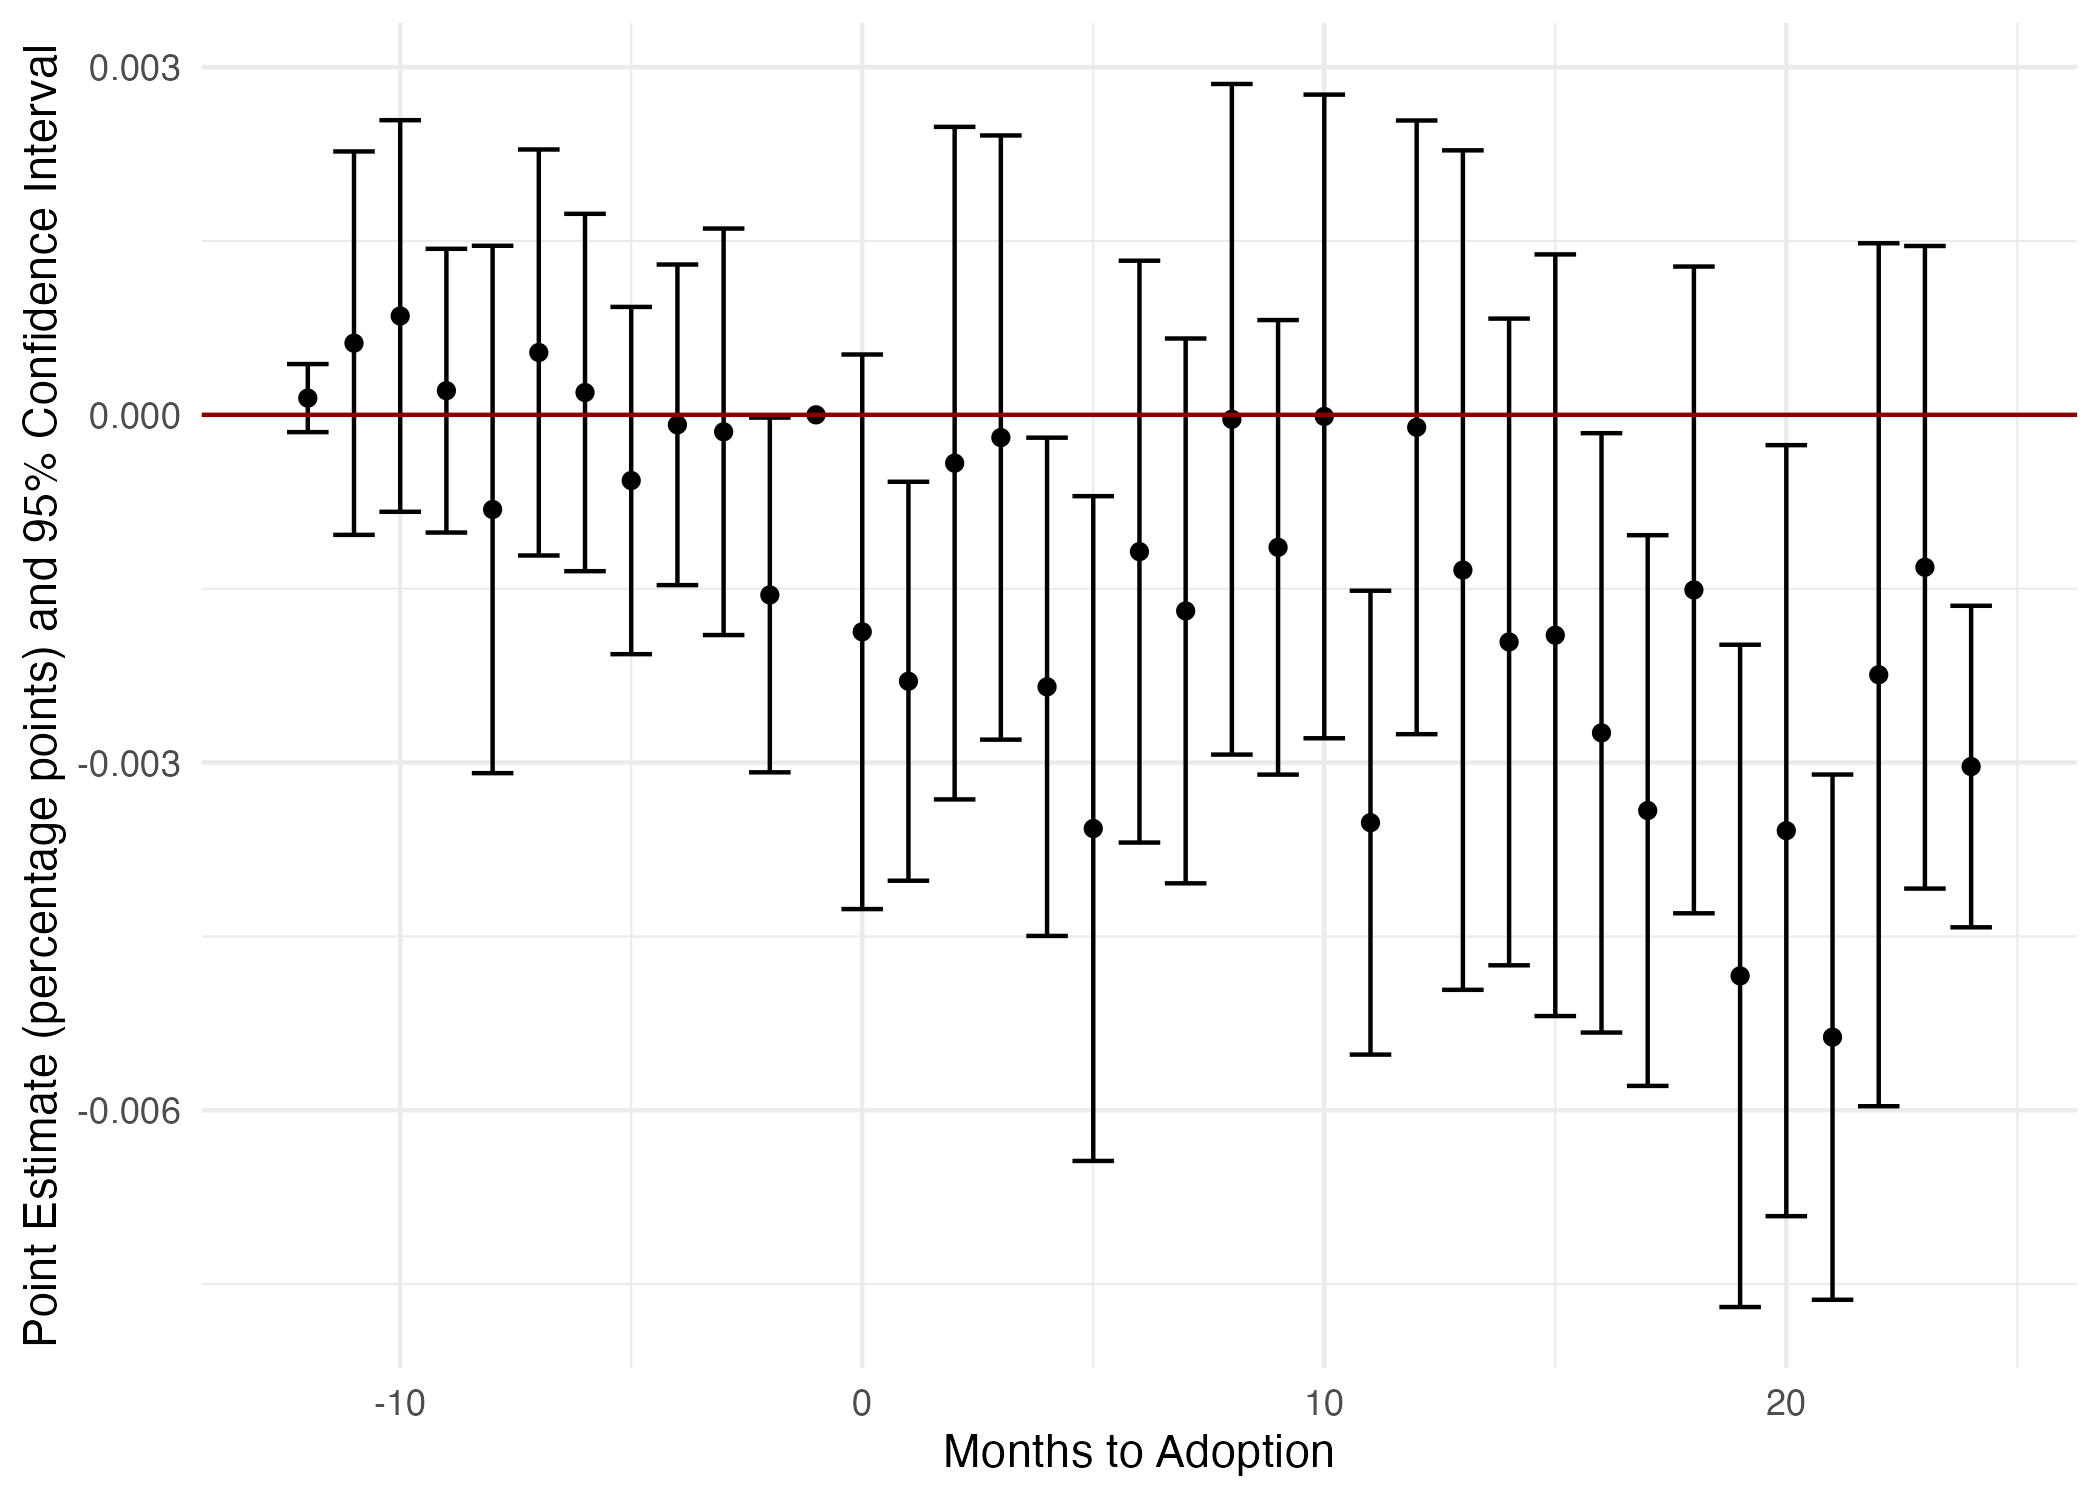
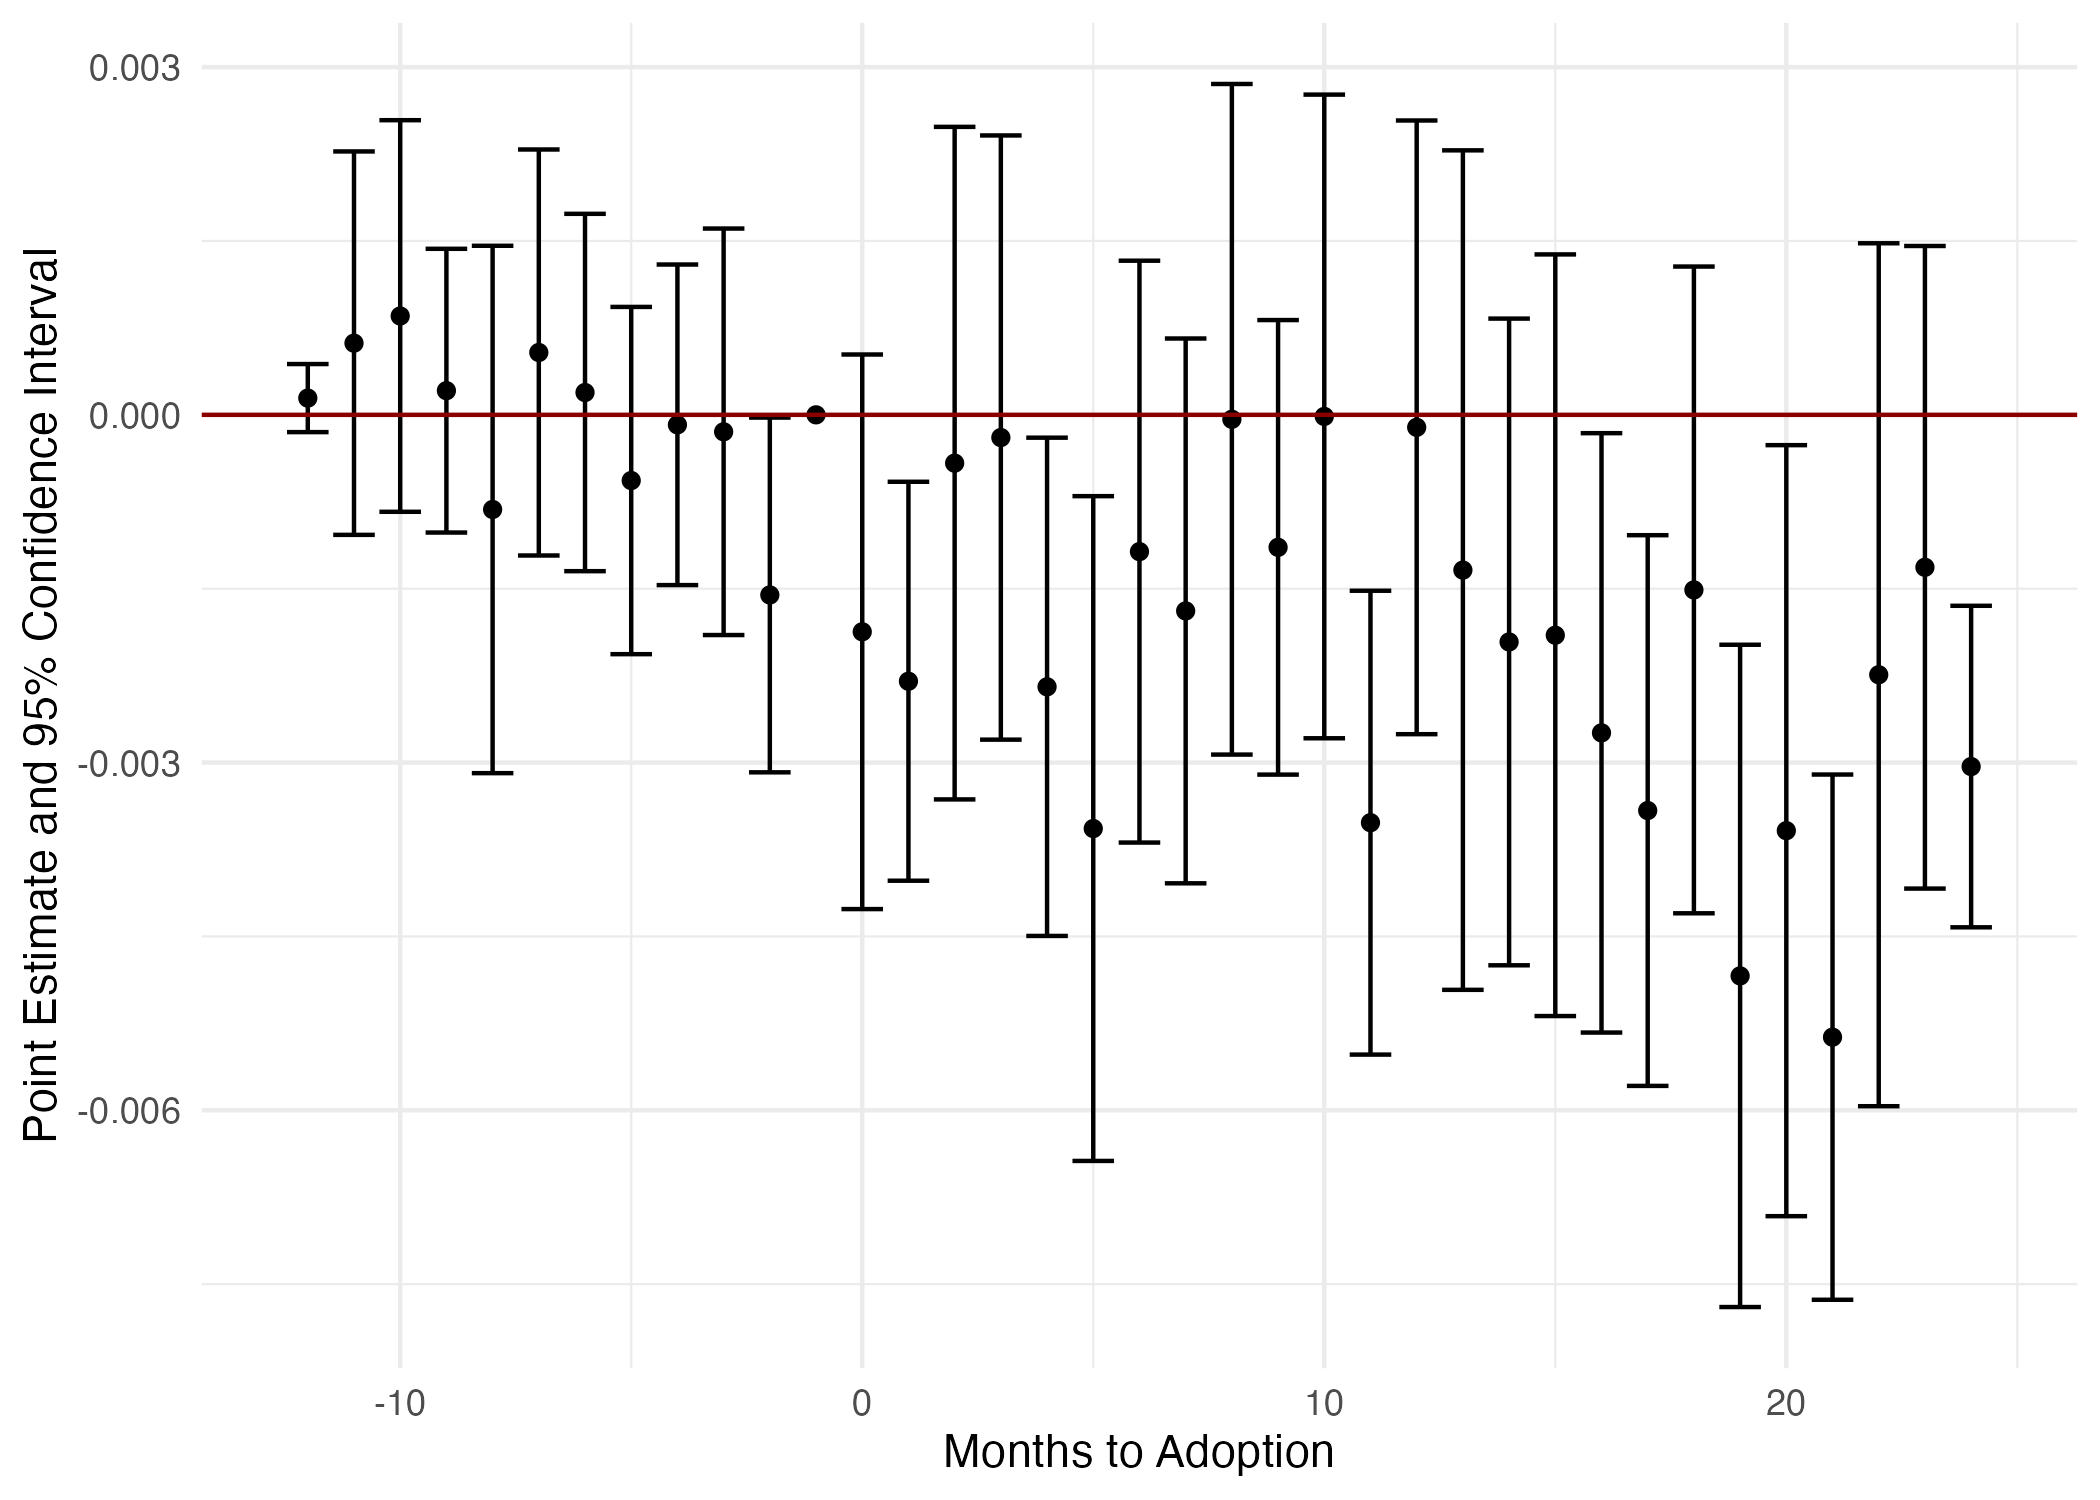
update: fix percentage point captions

Changed region(s): [[0.0, 0.0307, 0.031, 0.8893]]

diff --git a/paper/appendix_tables/arrest_prob_2sdid.tex b/paper/appendix_tables/arrest_prob_2sdid.tex
@@ -28,7 +28,7 @@ Gardner (2021) & X & X & X & X & X & X\\
 \begin{tablenotes}
 \item \textit{Note: } 
 \item * p < 0.1, ** p < 0.05, *** p < 0.01
-\item Standard errors are clustered by district. All                      coefficient estimates are in percentages. All estimates                      are computed using the Gardner (2021) estimator.                       The dependent variable in Columns 1-3 is an indicator equal to one if a 911 call resulted in an arrest.                      The dependent variable in Columns 4-6 is an indicator equal to one if a 911 call resulted in                       Other Police Service (Column 4), No Person Found (Column 5), or Peace Restored (Column 6).                      Column 1 reports the estimates using the entire sample.                  Columns 2 and 3 subset Column 1 by gun-related and non-gun-related 911 calls.                  Gun-related crimes are those corresponding to the following                  911 code descriptions: `person with a gun',                  `shots fired', or `person shot'.                   Columns 4-6 report the three most frequent 911 final dispositions: Other Police Service, No Person Found,                   and Peace Restored. The final disposition is the final result of                  what happened on the 911 call.                   Wild cluster bootstrap p-values using 999 replications are also reported                  since the number of clusters (22) is below the threshold of 30 put forth in                  Cameron et al. (2008).                  
+\item Standard errors are clustered by district. All                      coefficient estimates and means are in percentages. All estimates                      are computed using the Gardner (2021) estimator.                       The dependent variable in Columns 1-3 is an indicator equal to one if a 911 call resulted in an arrest.                      The dependent variable in Columns 4-6 is an indicator equal to one if a 911 call resulted in                       Other Police Service (Column 4), No Person Found (Column 5), or Peace Restored (Column 6).                      Column 1 reports the estimates using the entire sample.                  Columns 2 and 3 subset Column 1 by gun-related and non-gun-related 911 calls.                  Gun-related crimes are those corresponding to the following                  911 code descriptions: `person with a gun',                  `shots fired', or `person shot'.                   Columns 4-6 report the three most frequent 911 final dispositions: Other Police Service, No Person Found,                   and Peace Restored. The final disposition is the final result of                  what happened on the 911 call.                   Wild cluster bootstrap p-values using 999 replications are also reported                  since the number of clusters (22) is below the threshold of 30 put forth in                  Cameron et al. (2008).                  
 \end{tablenotes}
 \end{threeparttable}
 \end{table}

diff --git a/paper/tables/arrest_prob.tex b/paper/tables/arrest_prob.tex
@@ -28,7 +28,7 @@ FE: Hour-of-Day & X & X & X & X & X & X\\
 \begin{tablenotes}
 \item \textit{Note: } 
 \item * p < 0.1, ** p < 0.05, *** p < 0.01
-\item Standard errors are clustered by district. All                      coefficient estimates are in percentages.                      The dependent variable in Columns 1-3 is an indicator equal to one if a 911 call resulted in an arrest.                      The dependent variable in Columns 4-6 is an indicator equal to one if a 911 call resulted in                       Other Police Service (Column 4), No Person Found (Column 5), or Peace Restored (Column 6).                      Column 1 reports the estimates using the entire sample.                  Columns 2 and 3 subset Column 1 by gun-related and non-gun-related 911 calls.                  Gun-related crimes are those corresponding to the following                  911 code descriptions: `person with a gun',                  `shots fired', or `person shot'.                   Columns 4-6 report the three most frequent 911 final dispositions: Other Police Service, No Person Found,                   and Peace Restored. The final disposition is the final result of                  what happened on the 911 call.                   Wild cluster bootstrap p-values using 999 replications are also reported                  since the number of clusters (22) is below the threshold of 30 put forth in                  Cameron et al. (2008).                  
+\item Standard errors are clustered by district. All                      coefficient estimates and means are in percentages.                      The dependent variable in Columns 1-3 is an indicator equal to one if a 911 call resulted in an arrest.                      The dependent variable in Columns 4-6 is an indicator equal to one if a 911 call resulted in                       Other Police Service (Column 4), No Person Found (Column 5), or Peace Restored (Column 6).                      Column 1 reports the estimates using the entire sample.                  Columns 2 and 3 subset Column 1 by gun-related and non-gun-related 911 calls.                  Gun-related crimes are those corresponding to the following                  911 code descriptions: `person with a gun',                  `shots fired', or `person shot'.                   Columns 4-6 report the three most frequent 911 final dispositions: Other Police Service, No Person Found,                   and Peace Restored. The final disposition is the final result of                  what happened on the 911 call.                   Wild cluster bootstrap p-values using 999 replications are also reported                  since the number of clusters (22) is below the threshold of 30 put forth in                  Cameron et al. (2008).                  
 \end{tablenotes}
 \end{threeparttable}
 \end{table}
